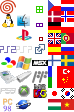
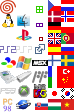
Added Slovak to the list of languages

Changed region(s): [[0.4595, 0.9107, 0.6486, 0.9911]]

diff --git a/data/style.css b/data/style.css
@@ -1183,6 +1183,8 @@ a .icons { cursor: pointer }
 .icons.nes { background-position: -32px -70px; }
 .icons.dos { background-position: -32px -84px; }
 
+.icons.sk  { background-position: -35px -99px; }
+
 .icons.cs  { background-position: -48px   0px; }
 .icons.da  { background-position: -48px -11px; }
 .icons.de  { background-position: -48px -22px; }
